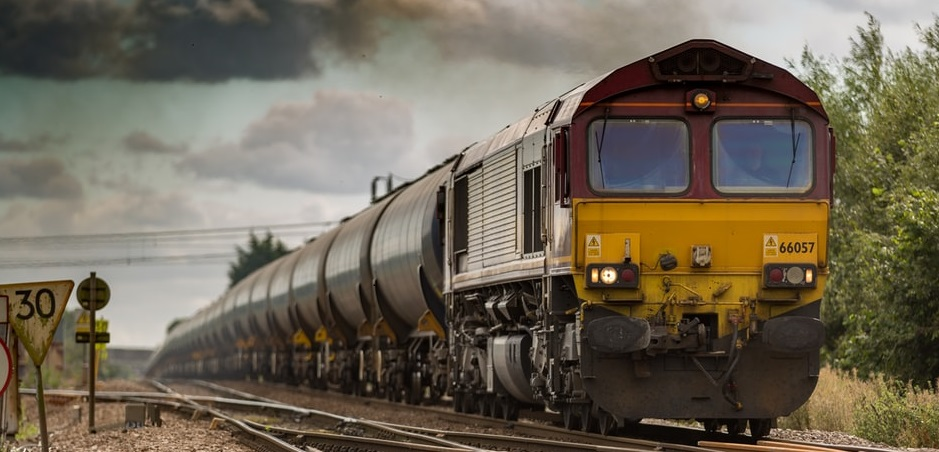
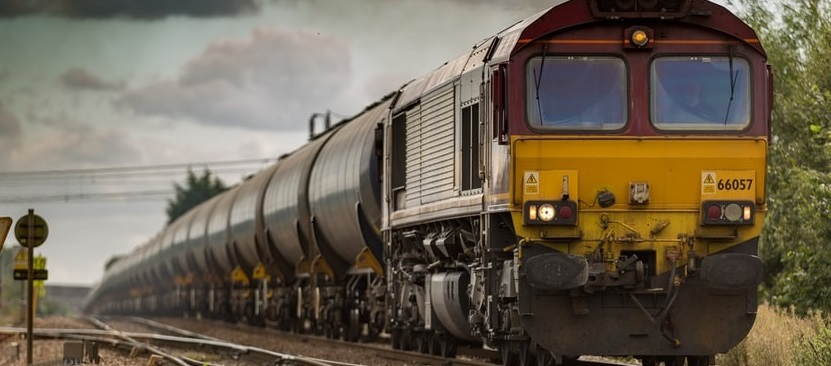
update with form and button

diff --git a/index.html b/index.html
@@ -45,24 +45,79 @@
 
     <div class="container">
 
-        <div id="carouselExampleSlidesOnly" class="carousel slide" data-ride="carousel">
+        <div id="carouselSlidesOnly" class="carouselSlide" data-ride="carousel">
             <div class="carousel-inner">
                 <div class="carousel-item active">
-                    <img src="assets/images/Train1.jpg" class="d-block w-100" alt="Image of a train">
+                    <!-- TODO: need to pick a different train image for first one -->
+                    <img src="assets/images/Train1.jpg" class="d-block" alt="Image of a train">
                 </div>
                 <div class="carousel-item">
-                    <img src="assets/images/Train2.jpg" class="d-block w-100" alt="image of a train schedule">
+                    <img src="assets/images/Train2.jpg" class="d-block" alt="image of a train schedule">
                 </div>
                 <div class="carousel-item">
-                    <img src="assets/images/Train3.jpg" class="d-block w-100"
-                        alt="image of a woman waiting for a train">
+                    <img src="assets/images/Train3.jpg" class="d-block" alt="image of a train">
                 </div>
             </div>
         </div>
 
+        <div class="row">
+
+            <div class="col-md-12">
 
 
+                <div class="card mb-4">
+                    <div class="card-header">Train Schedule</div>
+                    <div class="card-body">
+                        <table class="table table-sm table-hover" id='employee-table'>
+                            <thead>
+                                <tr>
+                                    <th scope="col">Train Name</th>
+                                    <th scope="col">Destination</th>
+                                    <th scope="col">Frequency (min)</th>
+                                    <th scope="col">Next Arrival</th>
+                                    <th scope="col">Minutes Away</th>
+                                </tr>
+                            </thead>
+                            <tbody>
+                            </tbody>
+                        </table>
+                    </div>
+                </div>
+            </div>
+        </div>
 
+        <div class="row">
+            <div class="col-md-12">
+
+                <div class="card mb-4">
+                    <div class="card-header">Add Train</div>
+                    <div class="card-body">
+
+                        <!-- Entry Form -->
+                        <form>
+                            <div class="form-group">
+                                <label for="train-name-input">Train Name</label>
+                                <input class="form-control" id="train-name-input" type="text">
+                            </div>
+                            <div class="form-group">
+                                <label for="role-input">Destination</label>
+                                <input class="form-control" id="role-input" type="text">
+                            </div>
+                            <div class="form-group">
+                                <label for="start-input">First Train Time (HH:mm - military time)</label>
+                                <input class="form-control" id="start-input" type="text">
+                            </div>
+                            <div class="form-group">
+                                <label for="rate-input">Frequency (min)</label>
+                                <input class="form-control" id="rate-input" type="text">
+                            </div>
+                            <button class="btn btn-primary float-left" id="add-train-btn">Submit</button>
+                        </form>
+
+                    </div>
+                </div>
+            </div>
+        </div>
 
     </div>
 

diff --git a/assets/css/style.css b/assets/css/style.css
@@ -1,0 +1,8 @@
+.d-block {
+    width: 100%;
+    height: 360px;
+}
+
+.mb-4 {
+    margin-top: 10px;
+}
